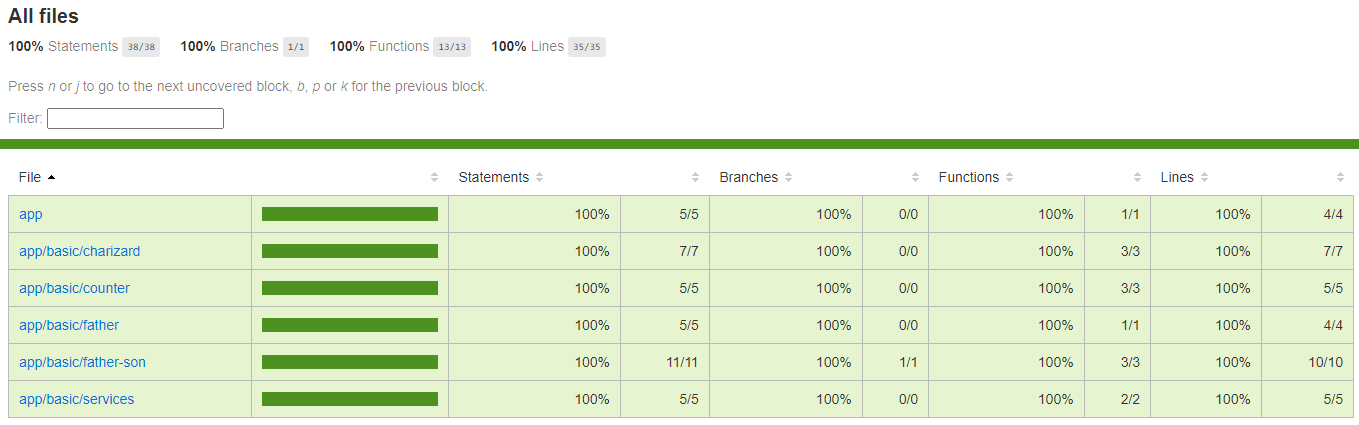
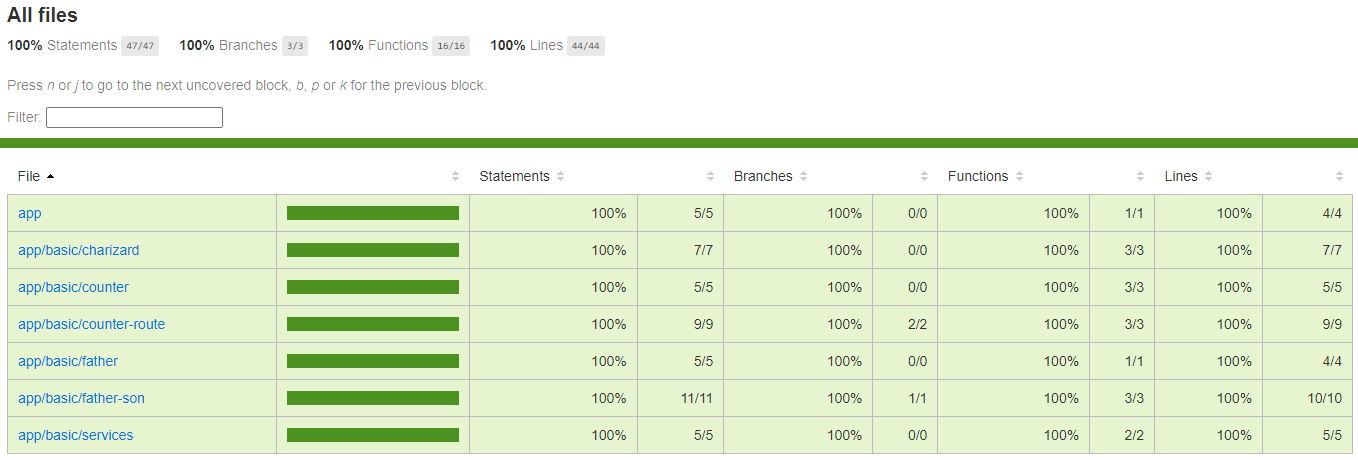
feat: Finalizando o projeto teste

diff --git a/test/basic/counter-route/counter-route.component.spec.ts b/test/basic/counter-route/counter-route.component.spec.ts
@@ -1,0 +1,100 @@
+import { ComponentFixture, TestBed } from '@angular/core/testing';
+
+import { ActivatedRoute } from '@angular/router';
+import { CounterRouteComponent } from '../../../src/app/basic/counter-route/counter-route.component';
+import { RouterTestingModule } from '@angular/router/testing';
+
+describe('CounterRouteComponent', () => {
+  let component: CounterRouteComponent;
+  let fixture: ComponentFixture<CounterRouteComponent>;
+
+
+  it('increaseBy(): deve aumentar com base no argumento', async () => {
+    await TestBed.configureTestingModule({
+      declarations: [CounterRouteComponent],
+      imports: [
+        RouterTestingModule
+      ]
+    })
+      .compileComponents();
+
+    fixture = TestBed.createComponent(CounterRouteComponent);
+    component = fixture.componentInstance;
+    fixture.detectChanges();
+
+    component.increaseBy(5);
+    expect(component.counter).toBe(5);
+  });
+
+
+  it('deve ter o valor inicial em zero', async () => {
+    await TestBed.configureTestingModule({
+      declarations: [CounterRouteComponent],
+      imports: [
+        RouterTestingModule
+      ]
+    })
+      .compileComponents();
+
+    fixture = TestBed.createComponent(CounterRouteComponent);
+    component = fixture.componentInstance;
+    fixture.detectChanges();
+
+    expect(component.counter).toBe(0)
+  });
+
+  it('deve ter o valor inicial de 100 na rota /counter/100', async () => {
+
+    const mockActivatedRoute = {
+      snapshot: {
+        paramMap: {
+          get(param: string) {
+            return (param === 'initial') ? '100' : undefined;
+          }
+        }
+      }
+    }
+
+    await TestBed.configureTestingModule({
+      declarations: [CounterRouteComponent],
+      providers: [
+        { provide: ActivatedRoute, useValue: mockActivatedRoute }
+      ]
+    })
+      .compileComponents();
+
+    fixture = TestBed.createComponent(CounterRouteComponent);
+    component = fixture.componentInstance;
+    fixture.detectChanges();
+
+    expect(component.counter).toBe(100)
+  });
+
+  it('deve ter o valor inicial de 10 na rota /counter/20abc', async () => {
+
+    const mockActivatedRoute = {
+      snapshot: {
+        paramMap: {
+          get(param: string) {
+            return (param === 'initial') ? '20abc' : undefined;
+          }
+        }
+      }
+    }
+
+    await TestBed.configureTestingModule({
+      declarations: [CounterRouteComponent],
+      providers: [
+        { provide: ActivatedRoute, useValue: mockActivatedRoute }
+      ]
+    })
+      .compileComponents();
+
+    fixture = TestBed.createComponent(CounterRouteComponent);
+    component = fixture.componentInstance;
+    fixture.detectChanges();
+
+    expect(component.counter).toBe(10)
+  });
+
+});

diff --git a/src/app/app-routing.module.ts b/src/app/app-routing.module.ts
@@ -2,6 +2,7 @@ import { RouterModule, Routes } from '@angular/router';
 
 import { CharizardComponent } from './basic/charizard/charizard.component';
 import { CounterComponent } from './basic/counter/counter.component';
+import { CounterRouteComponent } from './basic/counter-route/counter-route.component';
 import { FatherComponent } from './basic/father/father.component';
 import { FatherSonComponent } from './basic/father-son/father-son.component';
 import { NgModule } from '@angular/core';
@@ -10,6 +11,10 @@ const routes: Routes = [
   {
     path: 'basic/counter',
     component: CounterComponent
+  },
+  {
+    path: 'basic/counter/:initial',
+    component: CounterRouteComponent
   },
   {
     path: 'basic/charizard',

diff --git a/src/app/basic/counter-route/counter-route.component.ts b/src/app/basic/counter-route/counter-route.component.ts
@@ -1,0 +1,25 @@
+import { ActivatedRoute } from '@angular/router';
+import { Component } from '@angular/core';
+
+@Component({
+  selector: 'app-counter-route',
+  templateUrl: './counter-route.component.html',
+  styles: [
+  ]
+})
+export class CounterRouteComponent {
+  public counter: number = 0;
+
+  constructor(
+    private route: ActivatedRoute
+  ) { }
+
+  ngOnInit() {
+    const initialValue = Number(this.route.snapshot.paramMap.get('initial'));
+    this.counter = isNaN(initialValue) ? 10 : initialValue;
+  }
+
+  increaseBy(value: number) {
+    this.counter += value;
+  }
+}

diff --git a/src/app/basic/basic.module.ts b/src/app/basic/basic.module.ts
@@ -4,13 +4,15 @@ import { CounterComponent } from '@app/basic/counter/counter.component';
 import { NgModule } from '@angular/core';
 import { FatherComponent } from './father/father.component';
 import { FatherSonComponent } from './father-son/father-son.component';
+import { CounterRouteComponent } from './counter-route/counter-route.component';
 
 @NgModule({
   declarations: [
     CounterComponent,
     CharizardComponent,
     FatherComponent,
-    FatherSonComponent
+    FatherSonComponent,
+    CounterRouteComponent
   ],
   imports: [
     CommonModule

diff --git a/src/app/basic/counter-route/counter-route.component.html b/src/app/basic/counter-route/counter-route.component.html
@@ -1,0 +1,6 @@
+<h1>Counter {{ counter }}</h1>
+<h3>Usando Valor Da Rotas</h3>
+<hr>
+
+<button class="btn btn-primary mx-1" (click)="increaseBy(+1)">+1</button>
+<button class="btn btn-primary mx-1" (click)="increaseBy(-1)">-1</button>

diff --git a/src/app/basic/counter/counter.component.ts b/src/app/basic/counter/counter.component.ts
@@ -17,9 +17,6 @@ export class CounterComponent implements OnInit {
 
   increaseBy(value: number) {
     this.counter += value;
-
-    // TODO
-    // console.log({ newValue: this.counter })
   }
 
 }
